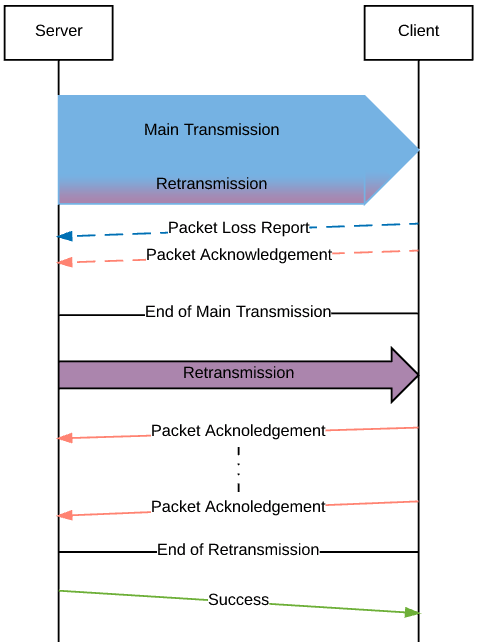
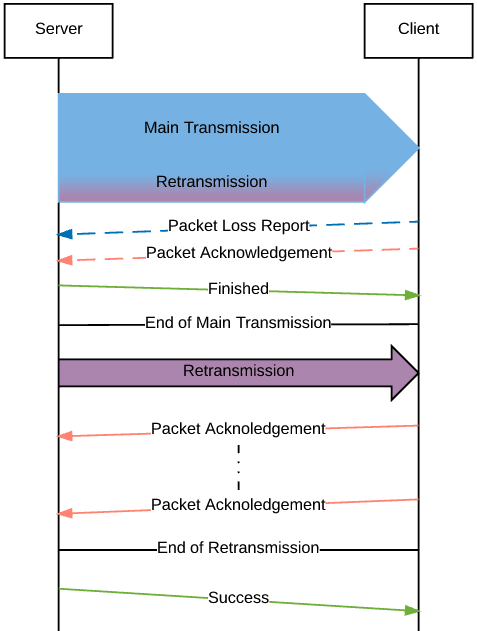
Finished second draft

diff --git a/thesis/Chapters/Chapter3.tex b/thesis/Chapters/Chapter3.tex
@@ -1,10 +1,10 @@
 \chapter{Design}
 
-The architectural design of MCDTP uses both TCP and UDP connections. Like \cite{Meiss2007}, \cite{He2002}, \cite{Aspera2016}, and \cite{Fan2010}, MCDTP uses the UDP transport protocol for the data transfer and the TCP socket is used for exchanging messages between the server and client. The experimental component of this protocol is the lack of congestion control. As mentioned here, \cite{Aspera2016} \cite{Fan2010}, the observed bottleneck resides on the hosts of an end-to-end transfer. MCDTP seeks to mitigate this through multiple asynchronous data channels and the number of channels is based on the degree of parallelism of the host machine. A channel acts as a pipe from disk to socket and vice versa. This is how MCDTP tries to provide continuous data flow. As a disclaimer, the term ``packet(s)" hereinafter does not refer to Transport or Network layer packets, the term is used to refer to an Application layer structure used by MCDTP.
+The architectural design of MCDTP uses both TCP and UDP connections. Like \cite{Meiss2007}, \cite{He2002}, \cite{Aspera2016}, and \cite{Fan2010}, MCDTP uses the UDP transport protocol for the data transfer and the TCP socket is used for exchanging messages between the server and client. The experimental component of this protocol is the lack of congestion control. As mentioned here, \cite{Aspera2016} \cite{Fan2010}, the observed bottleneck resides on the hosts of an end-to-end transfer. MCDTP seeks to mitigate this through multiple asynchronous data channels and the number of channels is determined when implementing this protocol. A channel acts as a pipe from disk to socket and vice versa. This is how MCDTP tries to provide continuous data flow. As a disclaimer, the term ``packet(s)" hereinafter does not refer to Transport or Network layer packets, the term is used to refer to an Application layer structure used by MCDTP.
 
 \section{Protocol Design}
 
-The MCDTP protocol focuses on being a very simple and lean protocol to try and minimize the needed time to process incoming messages or data. The protocol consists of three phases: a double handshake phase, data transmission phase, and retransmission phase. For TCP communication, each packet consists of 15 bytes. Each packet is a header with an optional payload. All headers begin with two fields, ``ptype" and ``subtype". These two fields specify how the packet should be processed. The UDP packet is adjustable in size when implementing MCDTP. It is, however, required to be within the following scope: $13B < size < 64KB$. The 13 byte lower bound is to account for packet header. The 64 kilobyte upper bound can be found here \cite{postel1981ip}. Unlike the TCP packets, UDP packets include payload size with packet size. Since TCP has the option of a payload, when one exists, a second read from the stream will be required to grab the payload. With the UDP packet, it is guaranteed that a packet will be a set size and thus eliminates the need for a second read.
+The MCDTP protocol focuses on being a very simple and lean protocol to try and minimize the needed time to process incoming messages or data. The protocol consists of three phases: a two step handshake phase, data transmission phase, and packet retransmission phase. For TCP communication, each packet consists of 15 bytes. Each packet is a header with an optional payload. All headers begin with two fields, ``ptype" and ``subtype". These two fields specify how the packet should be processed. The UDP packet is adjustable in size when implementing MCDTP. It is, however, required to be within the following scope: $13B < size < 64KB$. The 13 byte lower bound is to account for packet header. The 64 kilobyte upper bound can be found here \cite{postel1981ip}. Unlike the TCP packets, UDP packets include payload size with packet size. Since TCP has the option of a payload, when one exists, a second read from the stream will be required to grab the payload. With the UDP packet, it is guaranteed that a packet will be a set size and thus eliminates the need for a second read.
 
 \subsection{Two Step Handshake}
 
@@ -21,7 +21,7 @@ The specification handshake occurs when a client connects to the server. Figure 
 \label{fig:specs}
 \end{figure}
 
-The purpose of this handshake is ensure that both client and server use the same specifications for a data transfer. These specifications currently include the exchange and selection of ports the client should use for each UDP socket. As a side effect, the server knows the degree of parallelism of the client and can also effect this aspect as well based on how many ports it selects. The degree of parallelism for both hosts is set to whichever machine has the smaller degree of parallelism. In the instance of mismatch, there will be a machine whose potential is under utilized. This option is preferred over the other possible options such as increasing the degree of parallelism of the smaller machine to match the larger machine, or allowing them to be mismatch. The outcome of increasing the degree of parallelism would result in the smaller machine working too hard and ultimately slowing down due to the excess number of context switches being performed. If the latter alternative was in the scenario where the server was the larger machine and the client was the smaller machine, any implementation of MCDTP would then either force more than one UDP socket on the server to be mapped to one UDP socket on the client resulting in that socket being flooded with too much data, or, a server UDP socket would be idle and thus resources would be wasted. If the roles were reversed, the client would have an idle socket. The optimal choice is reducing the degree of parallelism to match.
+The purpose of this handshake is ensure that both client and server use the same specifications for a data transfer. These specifications currently include the exchange and selection of ports the client should use for each UDP socket. As a side effect, the server can detect how many data channels the client supports, which is key since not all hosts running MCDTP will be capable of using, or configured to use, the same number of data channels. Thus both hosts need to agree upon how many data channels to use. If one host can support more channels than the other, both hosts will agree to use the smaller of the two. This option is optimal over possible alternatives such as increasing the smaller host to match the larger host, or coercing the transfer to work through mismatching channel count, ``smaller host" refers to the host with the smaller amount of supported channels while ``larger host" refers to the opposite. The aforementioned alternative could work if a host was smaller because it was configured to run conservatively even though the host has the resources to run at a higher performance. However, if the host is smaller because there are fewer resources, then this could potentially cause the host to perform beyond its capacity. Since neither scenario is distinguishable to the client nor server, this option does not work. Coercion could lead to more work needing to be done on the a host depending on which host was larger. Since the concept of a data channel is to pipe file data to network and vice versa, if the client were larger, the server would have to try and multiplex data in a way that the client got roughly equal flow through all channels. If the roles were reversed, the client would need to do additional processing of data to ensure packets were in there appropriate position in file. Ergo, the optimal choice is to simply reduce the larger host to match the smaller host.
 
 \begin{figure}[ht]
 \centering
@@ -32,7 +32,7 @@ The purpose of this handshake is ensure that both client and server use the same
 
 Figure \ref{fig:specs-struct} shows the packet structure of each message, excluding connect, in the handshake. The value of ``ptype" and ``subtype" are as follow for each packet: $Request \rightarrow ptype = \lq{s}\rq,subtype = \lq{r}\rq$, $Exchange \rightarrow ptype = \lq{s}\rq,subtype = \lq{N}\rq$, $Set \rightarrow ptype = \lq{s}\rq,subtype = \lq{n}\rq$. In this handshake, both Exchange and Set have an additional field, ``nPort", and are followed by a payload. The payload consists of port values, which ``nPort" specifies how many port values are in the payload. In order to be as language agnostic as possible, a port is represented as 4 bytes, or a 32bit integer. Given this, the payload size can be calculated so that an exact number of bytes can be read during the second read from stream.
 
-\subsubsection{FTP Handshake}
+\subsubsection{FTP Handshake}\label{subsec:ftp-hs}
 
 Prior to transferring a file, MCDTP performs another handshake that is similar in design, as can be seen in Figure \ref{fig:ftp-hs}.
 
@@ -43,7 +43,7 @@ Prior to transferring a file, MCDTP performs another handshake that is similar i
 \label{fig:ftp-hs}
 \end{figure}
 
-This handshake acts as a concrete step before the data transmission phase and is very simple in design and purpose. This step is so that any asynchronous work that needs to be done first can finish as well as making sure both client and server are prepared for the data transmission phase, which mostly involves Disk I/O preprocessing steps, more on this in section \ref{sec:disk-io}. Figure \ref{fig:ftp-struct} is an illustration of the structure of each message in the handshake.
+This handshake acts as a concrete step before the data transmission phase and is very simple in design and purpose. This step is so that any asynchronous work that needs to be done first can finish as well as making sure both client and server are prepared for the data transmission phase, which is more of an implementation discussion and will be further discussed in chapter \ref{chp:impl}. Figure \ref{fig:ftp-struct} is an illustration of the structure of each message in the handshake.
 
 \begin{figure}[ht]
 \centering
@@ -56,16 +56,44 @@ This handshake acts as a concrete step before the data transmission phase and is
 
 \subsection{Data Transmission}
 
-<Add text>
+The data transmission phase is the second phase in the MCDTP protocol and is comprised mostly of the transmission of a file using the data channels setup in phase 1. The upper portion of Figure \ref{fig:data-tr} illustrates the communication between server and client. The large arrow from server to client at the top represents the data flow for a single channel. The blue in this representation symbolizes the transmission of the file. The packet retransmission phase and this phase have slight overlap, which is further discussed in section \ref{subsec:pack-retr}.
 
-\subsection{Packet Retransmission}
+\begin{figure}[ht]
+\centering
+\includegraphics[scale=0.5]{DataTransfer}
+\caption{Illustration of Data Transfer}
+\label{fig:data-tr}
+\end{figure}
 
-<Add text>
+The packet structure of the data transmitted over each channel is shown in Figure \ref{fig:data-tr-struct}. Note that the packet size is not definitively set. As stated above, the packet size can range from $13B < size < 64KB$ and is something that needs to be set at an implementation level. The ``seqNum" field is the position in file that the data should be written to. To maintain packet size, ``dLen" is used to determine exactly how much of ``data" is meaningful to the transfer. The ``flag" field acts as a control flag. When $flag=0$, the packet is a regular packet. A retransmitted packet has a ``flag" value of 1 and 2 is to signal to the client that the channel is switching to the packet retransmission phase. The final packet is illustrated by the green communication line labeled ``Finished" in Figure \ref{fig:data-tr}, which is sent over the UDP channel.
 
-\section{Disk I/O}\label{sec:disk-io}
+\begin{figure}[ht]
+\centering
+\includegraphics[scale=0.4]{DataTransferPacketStructure}
+\caption{Packet Structure of Data Transfer}
+\label{fig:data-tr-struct}
+\end{figure}
 
-<Add text>
+As previously mentioned, MCDTP is an experimental protocol. The experimental component attempts to perform a file transfer without the use of congestion control. The protocol tries to exploit the common operating system behavior that when a socket is created, it is given its own receive buffer. With each channel getting its own receive buffer, there is more space to hold incoming packets giving opportunity for handling more data at the Application layer.
 
-\subsection{File Partitioning}
+\subsection{Packet Retransmission}\label{subsec:pack-retr}
 
-<Add text>
+The packet retransmission phase is capable of starting during the data transmission phase. The purpose of this is to hopefully recover packets along the way to minimize the duration of this phase and ultimately achieve a successful transfer faster. As can be seen in Figure \ref{fig:data-tr}, retransmission consumes a very small portion of bandwidth so as not to impede upon the main transmission during the data transmission phase. The dashed communication lines labeled ``Packet Loss Report" and ``Packet Acknowledgement", which share the same structure as is evident in Figure \ref{fig:pack-rec-struct}, only occur when packet loss or packet recovery is detected and are sent over the TCP socket. The values for ``ptype" and ``subtype" are as follows: $Packet Loss Report \rightarrow ptype = \lq{t}\rq,subtype = \lq{l}\rq$ and $Packet Acknowledgement \rightarrow ptype = \lq{t}\rq,subtype = \lq{a}\rq$. The ``seqNum" field identifies the UDP packet the message is about and the ``port" field identifies which channel the UDP packet belongs to.
+
+\begin{figure}[ht]
+\centering
+\includegraphics[scale=0.4]{PacketRecoveryStructure}
+\caption{Packet Loss and Ack Report Structure}
+\label{fig:pack-rec-struct}
+\end{figure}
+
+After the data transmission phase finishes, the packet retransmission phase is able to consume more bandwidth. The ``Finished" packet is also placed in recovery to ensure the client receives this. Once the client sends an acknowledgement for this packet, that channel will be in the packet retransmission phase on both the client and server, which is represented by the middle segment of Figure \ref{fig:data-tr}.
+
+\begin{figure}[ht]
+\centering
+\includegraphics[scale=0.4]{SuccessPacketStructure}
+\caption{Packet Structure of Success Report}
+\label{fig:success-struct}
+\end{figure}
+
+Like RBUDP \cite{He2002}, a channel will continue this phase until the server has received an acknowledgement for all packets that are in recovery for that channel. Once all packets have made it, the server sends a success report, Figure \ref{fig:success-struct}, over TCP thus concluding the work the channel specified by the ``port" field. The ``ptype" and ``subtype" are set to $`t'$ and $`S'$, respectively. One all channels have succeeded, the session between the client and server is concluded.

diff --git a/thesis/Chapters/Chapter2.tex b/thesis/Chapters/Chapter2.tex
@@ -4,7 +4,7 @@ In order to approach the problem in a unique way, it was necessary to have a bac
 
 \section{Networking}
 
-The Transmission Control Protocol was invented in 1978 to provide a ``reliable host-to-host" protocol for network communication \cite{cerf1978specification}. By using packet reception acknowledgements and congestion control, TCP gave reliability insurance over the Internet Protocol and became the standard for network communication in 1983 \cite{andrews2013who}. The User Datagram Protocol was created in 1980 as an alternative to TCP \cite{postel1980user}\cite{kozierokr2005udp}. The purpose for designing UDP was for applications that needed faster communication. Both TCP and UDP are now standard protocols in the Transport layer of the network stack.
+The Transmission Control Protocol was invented in 1978 to provide a ``reliable host-to-host" protocol for network communication \cite{cerf1978specification}. By using packet reception acknowledgements and congestion control, TCP gave reliability insurance atop the Internet Protocol and became the standard for network communication in 1983 \cite{andrews2013who}. The User Datagram Protocol was created in 1980 as an alternative to TCP \cite{postel1980user}\cite{kozierokr2005udp}. The purpose for designing UDP was for applications that needed faster communication. Both TCP and UDP are now standard protocols in the Transport layer of the network stack.
 
 \subsection{Optimizing TCP}
 
@@ -28,7 +28,7 @@ Similar to Tsunami in its mechanics, RBUDP \cite{He2002} uses a TCP connection t
 
 The UDP Data Transfer protocol \cite{gu2007udt} is strictly a UDP-based protocol that imposes a congestion control mechanism on top of that. There are two UDP sockets used by UDT, one socket labeled ``Sender", the other labeled ``Receiver". The receiver socket would not only receive data, but it would be used for sending control information. UDT used TCP like messages for congestion control and reliability insurance. During a transfer from Chicago to Amsterdam, UDT had a throughput of 940Mbps over a 1Gbps link.
 
-Aspera's fasp protocol \cite{Aspera2016}\cite{Fan2010} is a UDP-based protocol that uses a rate-based control system by using early congestion notification and random early detection to adjust the rate of the transmission. fasp handles ratransmissions by resending packets at a rate that makes use of available bandwidth. This provides a continuous flow of data. Network utilization is kept at near 100\%.
+Aspera's fasp protocol \cite{Aspera2016}\cite{Fan2010} is a UDP-based protocol that uses a rate-based control system by using early congestion notification and random early detection to adjust the rate of the transmission. fasp handles ratransmissions by resending packets at a rate that makes use of available bandwidth. This provides a continuous flow of data. Aspera is capable of achieving a network utilization of nearly 100\%.
 
 \subsubsection{Network Stack Optimization}
 
@@ -43,7 +43,7 @@ Sivakumar et al. designed PSockets \cite{Sivakumar2000psockets} to be a socket p
 
 \section{Asynchrony}
 
-Though this paper does not focus on asynchrony, it is a part of the design choices and implementation of this project and thus is worth reviewing. Asynchrony started out as a way for processes to communicate with each other using unbounded buffer channels \cite{Josephs1989}. A process uses in and out channels for messaging and sharing data with other processes. The purpose is to provide non-blocking behavior. A process does not need to wait for a message or a piece of data to continue doing work, it reacts to incoming messages. This concept has worked its way into programming models and work scheduling \cite{Guo2009}\cite{Leijen2009}\cite{syme2011f}\cite{sutcliffe1988jackson}\cite{Cameron1986}\cite{Frigo1998}.
+Though this paper does not focus on the mechanics of asynchrony, it is a part of the design choices and implementation of this project and thus is worth reviewing. Asynchrony started out as a way for processes to communicate with each other using unbounded buffer channels \cite{Josephs1989}. A process uses in and out channels for messaging and sharing data with other processes. The purpose is to provide non-blocking behavior. A process does not need to wait for a message or a piece of data to continue doing work, it reacts to incoming messages. This concept has worked its way into programming models and work scheduling \cite{Guo2009}\cite{Leijen2009}\cite{syme2011f}\cite{sutcliffe1988jackson}\cite{Cameron1986}\cite{Frigo1998}.
 
 \subsection{Scheduling Asynchronous Work}
 

diff --git a/thesis/Chapters/Chapter1.tex b/thesis/Chapters/Chapter1.tex
@@ -4,6 +4,6 @@ Amidst the explosion of data globalization, content streaming, and an increased 
 
 Reliability is an important feature for many applications that use computer communication. Some solutions, \cite{Allman1995}\cite{Allman1997}\cite{Sivakumar2000psockets}, seek to address the problem using a parallel approach. This approach can increase bandwidth use, but it adds overhead on the performance of the machines at the ends of the network connection. With this approach, the application layer needs to divide the data evenly across all parallel connections, then the TCP connections further breakdown the data into packets before sending. The reverse process happens when reconstructing the data on the receiver end. This two stage partitioning and reconstructing of data adds overhead to the application layer and can limit just how much of a speedup is achieved with parallel connections. The other shortcoming of parallel connections is the limit to the parallelism of a machine. If a computer has a two core processor, it can only do two jobs in parallel. Additionally, parallelism could result in wasted resources in the instance a core finishes all of its work before other cores. Parallelism may have improvements to network utilization, but that is met with costs on the computer \cite{Leijen2009}.
 
-Along with the use of parallel computing, there have been adaptions of the higher-level protocols and systems mentioned in \cite{Fan2010} that utilize UDP as the transport for packets from sender to receiver \cite{He2002}\cite{Aspera2016}\cite{Fan2010}\cite{Meiss2007}\cite{gu2007udt}. This option is a very viable method for mitigating the problem of under utilized bandwidth and long connections. There is a challenge, however, to using UDP. As per the original RFC, UDP is an unreliable transport protocol; however, UDP is incredibly fast with throughput of data. This places work on the application layer to provide reliability for data transfers. With the physical layer increasing in bandwidth constantly, the bottleneck lies with the end points for a connection \cite{Aspera2016}\cite{Fan2010}. Solutions using UDP need to mitigate as much of the end point bottleneck as possible to provide consistently fast data transfers.
+Along with the use of parallel computing, there have been adaptions of the higher-level protocols and systems mentioned in \cite{Fan2010} that utilize UDP as the transport for packets from sender to receiver \cite{He2002}\cite{Aspera2016}\cite{Fan2010}\cite{Meiss2007}\cite{gu2007udt}. This option is a very viable method for mitigating the problem of under utilized bandwidth and long connections. There is a challenge, however, to using UDP. As per the original RFC \cite{postel1980user}, UDP is an unreliable transport protocol; however, UDP is incredibly fast with throughput of data. This places work on the application layer to provide reliability for data transfers. With the physical layer increasing in bandwidth constantly, the bottleneck lies with the end points of a connection \cite{Aspera2016}\cite{Fan2010}. Solutions using UDP need to mitigate as much of the end point bottleneck as possible to provide consistently fast data transfers.
 
 This paper is a report on an experimental protocol called MCDTP. This report discusses the alternative approach MCDTP takes to try and mitigate the end point bottleneck, the challenges faced with this project, and lessons learned. The motivation for this project has been to gain a deeper understanding of Computer Networking and possibly shed light on benefits and expenses of networking using the approach of this project. The source code for this project will be made available online and released under the MIT license as an open source project. The goal of this project is to contribute to the advancement of Computer Networking.

diff --git a/thesis/Chapters/Chapter4.tex b/thesis/Chapters/Chapter4.tex
@@ -1,4 +1,4 @@
-\chapter{Implementation}
+\chapter{Implementation}\label{chp:impl}
 
 <Add text>
 
@@ -10,10 +10,6 @@
 
 <Add text>
 
-\section{Memory Mapped File Implementation}
-
-<Add text>
-
-\section{Data Checksumming Implementation}
+\section{Disk I/O Implementation}
 
 <Add text>
